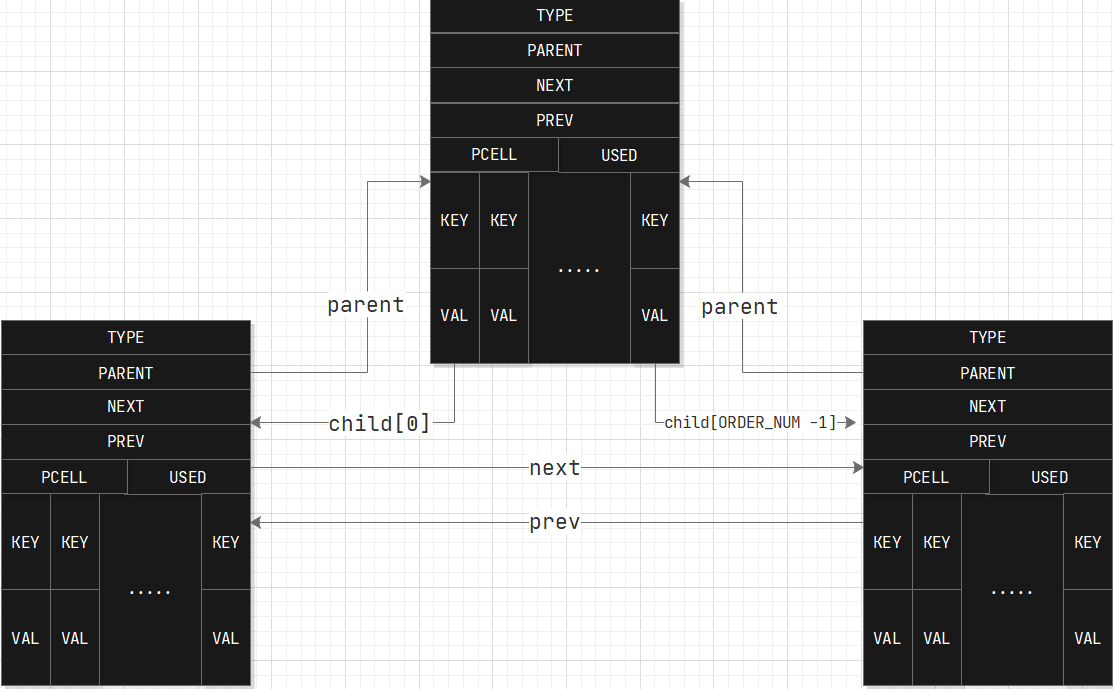
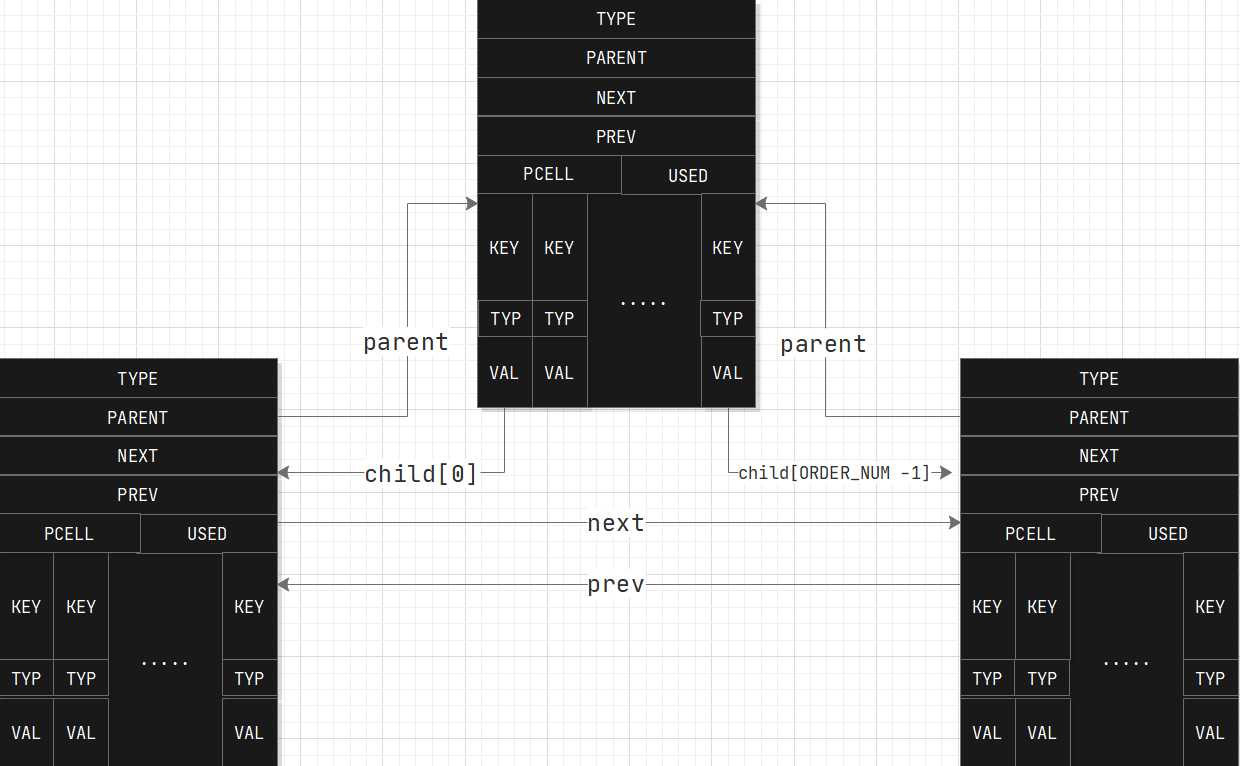
.

diff --git a/readme.md b/readme.md
@@ -3,11 +3,17 @@
 - [2. 目录说明](#2-目录说明)
 - [3. 设计及实现](#3-设计及实现)
   - [3.1 b+树](#31-b树)
-    - [3.1.1 图解说明](#311-图解说明)
-      - [页节点结构说明](#页节点结构说明)
-      - [页节点存储说明](#页节点存储说明)
-      - [叶结点内存存储](#叶结点内存存储)
+    - [3.1.1 页结构](#311-页结构)
+      - [页节点内部布局：](#页节点内部布局)
+      - [页节点结构说明:](#页节点结构说明)
+      - [页节点存储说明:](#页节点存储说明)
+      - [叶结点内存存储:](#叶结点内存存储)
     - [3.1.2 页节点插入数据](#312-页节点插入数据)
+    - [3.1.2 叶结点删除](#312-叶结点删除)
+    - [3.1.3 叶结点查询](#313-叶结点查询)
+    - [3.1.4 空闲节点管理](#314-空闲节点管理)
+    - [3.1.5 buffer管理](#315-buffer管理)
+  - [3.2 数据表](#32-数据表)
 - [4. 测试](#4-测试)
   - [4.1 测试b+树](#41-测试b树)
   - [4.2 测试数据表](#42-测试数据表)
@@ -30,12 +36,36 @@ test/      # 测试程序路径
 ## 3. 设计及实现
 ### 3.1 b+树
 
-#### 3.1.1 图解说明
-为了调试、说明、理解方便，设计每个页节点，最多可以放入3个数据即order为3，当然实际的b+树页面不可能只存三个数据，可以增加PAGE_SIZE值来增加页面存储数据的个数。  
+#### 3.1.1 页结构
+ 
+##### 页节点内部布局：  
+
+<!--
+</br>
+<div align=center>
+<img src="image/page-struct.png" alt="drawing" width="300"/>  
+</div>
+
+页节点的关联关系：  
+</br>
+<div align=center>
+<img src="image/page-relation.png" alt="drawing" width="600"/>  
+</div>
+-->
+
+<center class="half">
+     <img src="image/page-struct.png" alt="drawing" height="300"/><img src="image/page-relation.png" alt="drawing" height="300"/>  
+</center>
+
+每个页节点的PARENT存储父节点的节点下标，NEXT存储兄节点的节点下标，PREV存储弟节点的节点下标，若节点类型非页节点，则VAL存储子节点的下标，否则存储具体的数值。  
+
+</br>  
+
+为了调试、说明、理解方便，设计每个页节点，最多可以放入3个数据即order为3，当然实际的b+树页面不可能只存三个数据，可以增加PAGE_SIZE值来增加页面存储数据的个数。当然，在调试成功之后，可以扩大PAGE_SIZE, 以增加每页可存储的数据。   
 
 </br>
 
-##### 页节点结构说明   
+##### 页节点结构说明:   
 页节点的头6个字段分别存储的为页类型、父页节点下标、兄页节点下标、弟叶结点下标、父节点CELL索引，节点内已经填充的数据个数，前4个字段各4个字节，以小端模式存储，后两个字段各2个字节。这6个字段长度的定位在const.js文件中如下：  
 ```javascript
 const PAGE_TYPE_LEN = 4       // 代表类型的字节数
@@ -51,6 +81,18 @@ const CELL_USED_LEN = 2       // 使用键值数的字节数
 const KEY_MAX_LEN = 10 // 键最大长度
 const VAL_IDX_LEN = 4  // 值长度, 根或茎节点指向子页面, 叶子节点指向值
 ```
+
+其中，VAL包括两个部分(type: value), type即为数据的类型， value为数据的实际值，type的定义在const.js中:
+```javascript
+const VAL_TYPE_IDX = 0 // 非叶子节点存储子节点索引
+const VAL_TYPE_NUM = 1 // 叶子节点存储内容为数字
+const VAL_TYPE_STR = 2 // 叶子节点存储内容为字符串
+const VAL_TYPE_FPN = 3 // 叶子节点存储内容为浮点数
+const VAL_TYPE_OBJ = 4 // 叶子节点存储内容为对象
+const VAL_TYPE_UNK = 5 // 未知
+```
+
+
 为了调试方便，设置页的大小为64，这样，每页中最大的键值对个数为3，即ORDER_NUM，定义在const.js文件中：
 ```javascript
 const PAGE_SIZE = 64 // 页大小
@@ -70,26 +112,8 @@ const LESS_HALF_NUM = Math.floor(ORDER_NUM / 2)  // 少的一半
 const MORE_HALF_NUM = Math.ceil(ORDER_NUM / 2)   // 多的一半
 
 ```
-当然，在调试成功之后，可以扩大PAGE_SIZE, 以增加每页可存储的数据。  
 
-页节点的存储布局：  
-</br>
-<div align=center>
-<img src="image/page-struct.png" alt="drawing" width="300"/>  
-</div>
-
-页节点的关联关系：  
-</br>
-<div align=center>
-<img src="image/page-relation.png" alt="drawing" width="600"/>  
-</div>
-
-每个页节点的PARENT存储父节点的节点下标，NEXT存储兄节点的节点下标，PREV存储弟节点的节点下标，若节点类型非页节点，则VAL存储子节点的下标，否则存储具体的数值。  
-
-</br>  
-
- 
-##### 页节点存储说明
+##### 页节点存储说明:
 数据按页连续存入单文件中，第1页的范围为0-63byte, 页下标为0，第2页的范围为64-127byte，页下标为1，依次内推，以插入数据100为例，存储文件以16进制dump出来显示如下：  
 <div align=center>
 <img src="image/100-store.png" alt="drawing" width="600"/>  
@@ -100,7 +124,7 @@ const MORE_HALF_NUM = Math.ceil(ORDER_NUM / 2)   // 多的一半
 
 </br>
 
-##### 叶结点内存存储
+##### 叶结点内存存储:
 
 借助于nodejs的特性，以map存储页的索引以及对应的页内容，定义在bptree.js文件中：
 ```javascript
@@ -175,6 +199,31 @@ fucntion newPage(type) {
 <div align=center>
 <img src="image/80.png" alt="drawing" width="600"/>  
 </div>
+
+#### 3.1.2 叶结点删除
+TODO
+
+</br>
+
+#### 3.1.3 叶结点查询
+TODO
+
+</br>
+
+#### 3.1.4 空闲节点管理
+TODO
+
+</br>
+
+#### 3.1.5 buffer管理
+TODO
+
+</br>
+
+### 3.2 数据表
+TODO
+
+</br>
 
 ## 4. 测试
 测试的demo文件在test目录下面，test_bptree.js用于测试b+树，test_table.js用于测试数据库, 直接执行:
